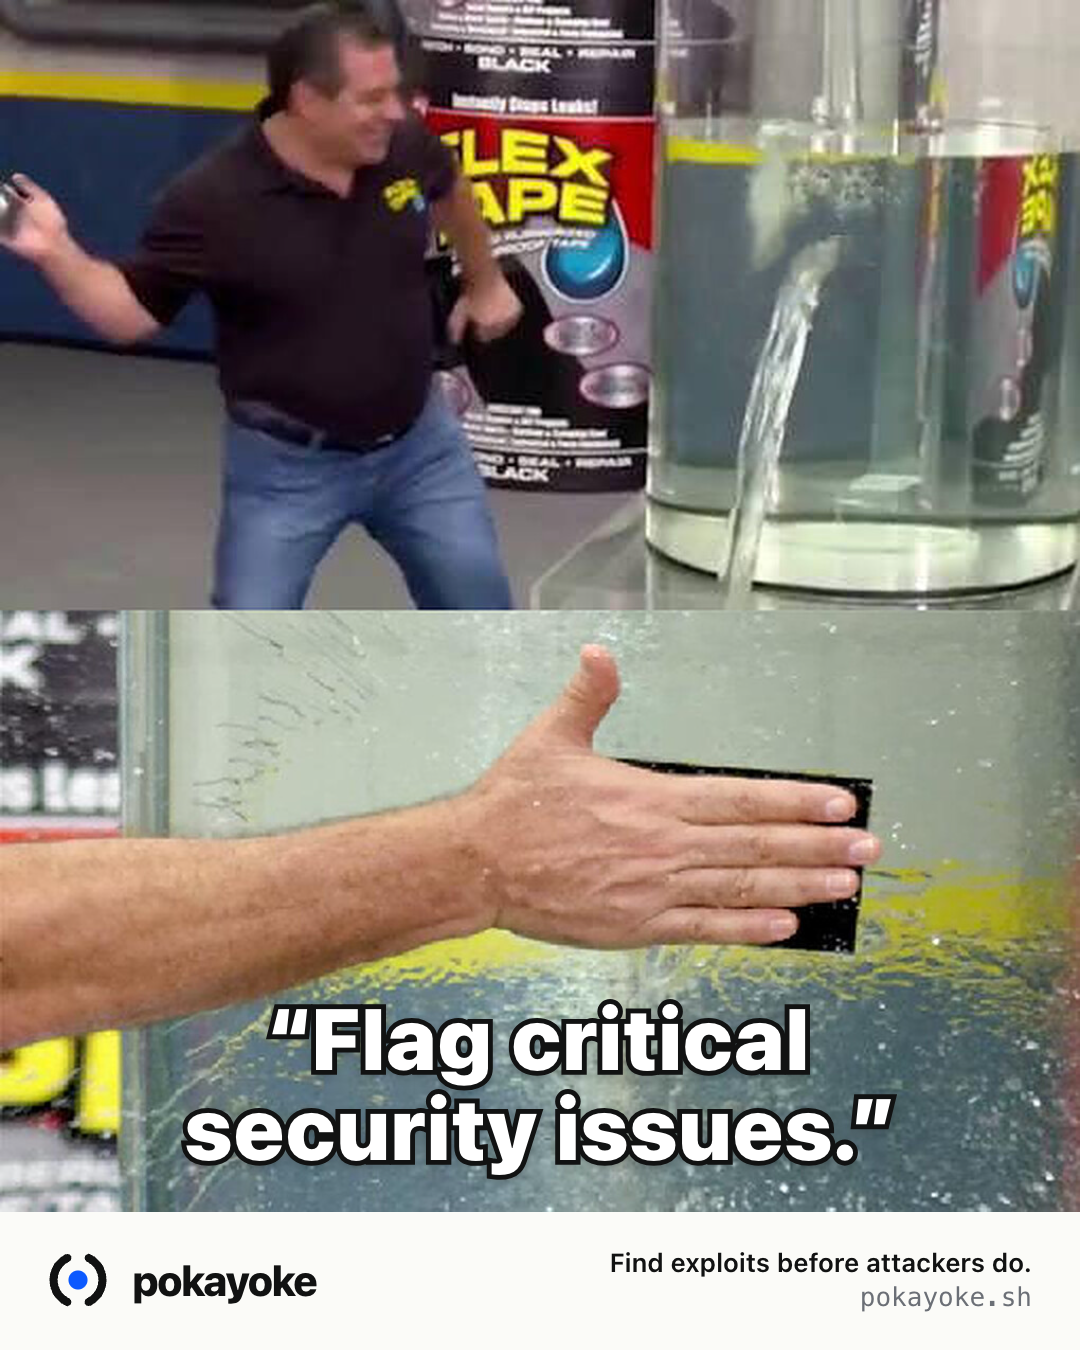
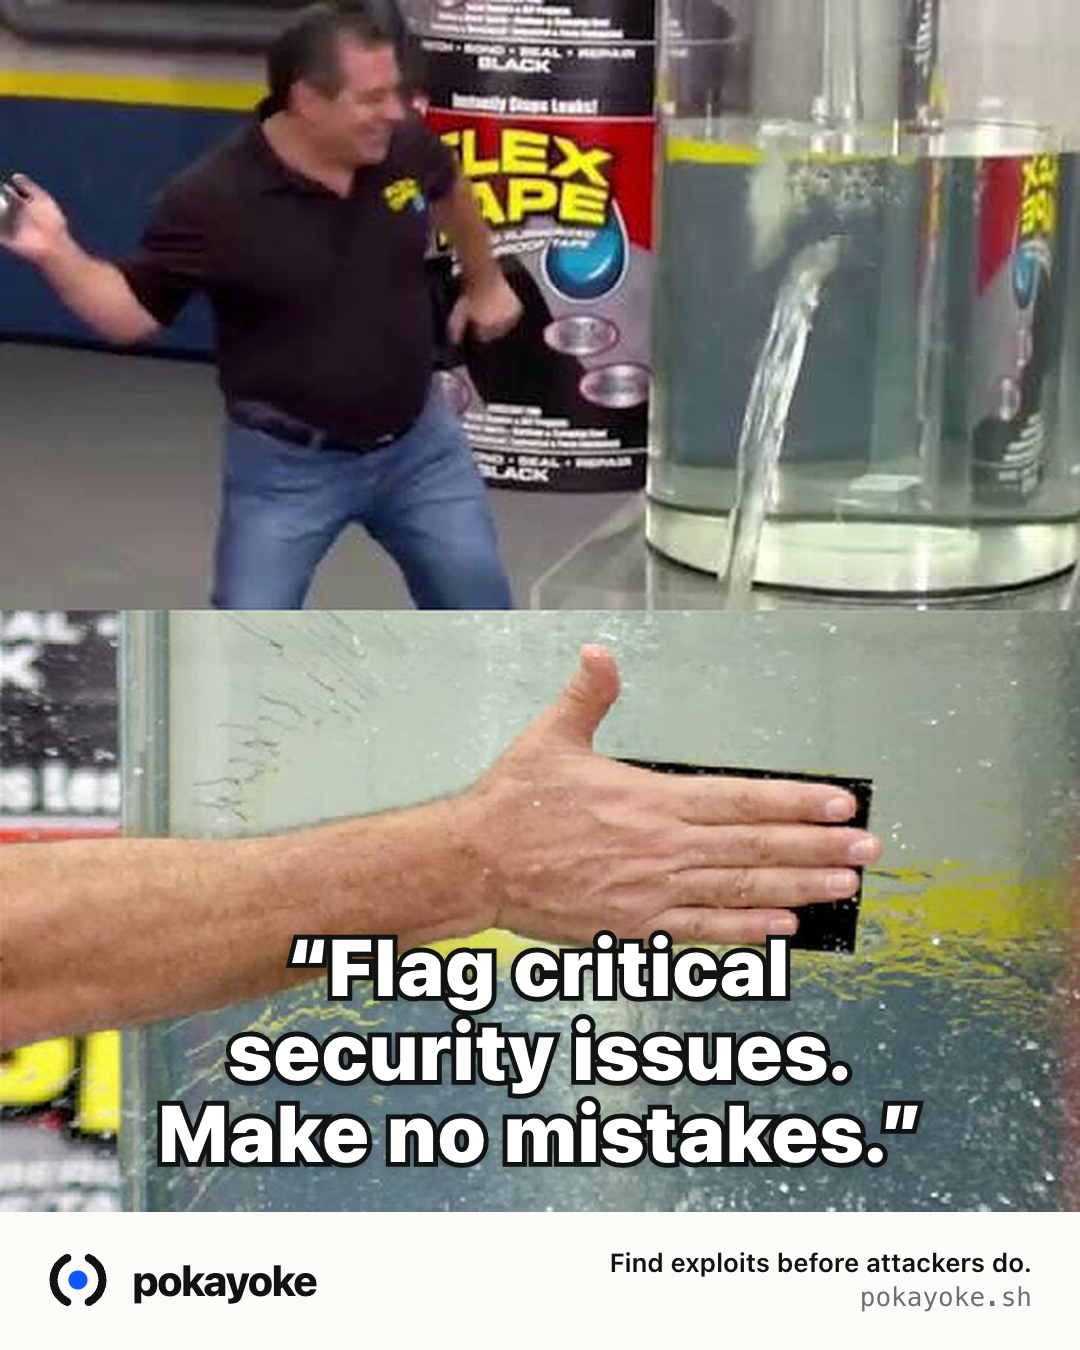
PKY-0006: add "Make no mistakes." after the meme's quoted bottom text, on its own line

Changed region(s): [[0.1222, 0.6844, 0.8556, 0.8711]]

diff --git a/ads/PKY-0006/ad.html b/ads/PKY-0006/ad.html
@@ -10,8 +10,9 @@
 <link rel="stylesheet" href="../../brand/tokens.css">
 <!--
   Meme: Flex Tape (imgflip template 166969924, the same frames as the user's image), upscaled 2x to meme.jpg
-  (1020x1144). The user asked for "Flag critical security issues." at the bottom, in quotation marks: it is the
-  meme's bottom text. No headline: the meme carries the ad.
+  (1020x1144). The user asked for "Flag critical security issues. Make no mistakes." at the bottom, in quotation
+  marks, like a prompt to an AI: it is the meme's bottom text, the second sentence on its own line. No headline:
+  the meme carries the ad.
   Layouts: 16:9 meme left, panel right. 4:5 meme full width over a brand band. 9:16 meme, then line and brand band.
 -->
 <style>
@@ -59,7 +60,7 @@
     transform: translateX(-50%);
     text-align: center;
     text-wrap: balance;
-    font-size: 8cqw;
+    font-size: 7.4cqw;
     font-weight: 900;
     letter-spacing: 0.01em;
     line-height: 1.04;
@@ -68,6 +69,7 @@
     paint-order: stroke fill;
     text-shadow: 0 0.4cqw 1.2cqw color-mix(in srgb, var(--color-ink) 45%, transparent);
   }
+  .caption span { display: block; }
 
   /* The line and the lockup */
   .panel {
@@ -132,7 +134,7 @@
 <main class="ad">
   <div class="meme">
     <img src="meme.jpg" width="1020" height="1144" alt="">
-    <p class="caption">“Flag critical security issues.”</p>
+    <p class="caption"><span>“Flag critical security issues.</span> <span>Make no mistakes.”</span></p>
   </div>
 
   <section class="panel">

diff --git a/ads/manifest.js b/ads/manifest.js
@@ -15,7 +15,7 @@ window.POKAYOKE_ADS = [
   },
   {
     id: 'PKY-0006',
-    alt: 'pokayoke ad. The Flex Tape meme: a pitchman with a tank of water gushing from a hole, then a hand slapping tape over the leak, with the bottom text in quotes: "Flag critical security issues." pokayoke watches every push, runs an exploit against what it finds, and flags the critical issues before attackers do. Find exploits before attackers do. pokayoke.sh',
+    alt: 'pokayoke ad. The Flex Tape meme: a pitchman with a tank of water gushing from a hole, then a hand slapping tape over the leak, with the bottom text in quotes: "Flag critical security issues. Make no mistakes." pokayoke watches every push, runs an exploit against what it finds, and flags the critical issues before attackers do. Find exploits before attackers do. pokayoke.sh',
   },
   {
     id: 'PKY-0005',

diff --git a/memes/manifest.js b/memes/manifest.js
@@ -222,7 +222,7 @@ window.POKAYOKE_MEMES = [
     fit: 'The leak gets slapped shut the moment it shows: pokayoke as the tape.',
     panels: [
       ['Pitchman and the gushing tank', 'Your repo, springing a leak'],
-      ['Bottom text, over the tape', '"Flag critical security issues."'],
+      ['Bottom text, over the tape', '"Flag critical security issues. Make no mistakes."'],
     ],
     line: 'pokayoke watches every push, runs an exploit against what it finds, and flags the critical issues before attackers do.',
     ad: 'PKY-0006',

diff --git a/README.md b/README.md
@@ -34,7 +34,7 @@ git config credential.https://KiltroKills@github.com.helper \
 | PKY-0009 | "Found. Verified. Disclosed." over the pokayoke.sh finding strip stood up as a list: score chip, severity, repo and advisory ID for five findings (seven in 9:16) from its public disclosure record | [`ads/PKY-0009/`](ads/PKY-0009/) |
 | PKY-0008 | The "Paste into your agent" card from pokayoke.sh in its dark theme: the line to paste and the blue Copy button | [`ads/PKY-0008/`](ads/PKY-0008/) |
 | PKY-0007 | The pokayoke.sh hero: "Find exploits before attackers do." and its three blue ticks (GitHub App, proven or not, private fix) | [`ads/PKY-0007/`](ads/PKY-0007/) |
-| PKY-0006 | Flex Tape meme with the bottom text, in quotes, "Flag critical security issues." (meme bank MEME-12; `captioned.png` is the meme alone) | [`ads/PKY-0006/`](ads/PKY-0006/) |
+| PKY-0006 | Flex Tape meme with the bottom text, in quotes, "Flag critical security issues. Make no mistakes." (meme bank MEME-12; `captioned.png` is the meme alone) | [`ads/PKY-0006/`](ads/PKY-0006/) |
 | PKY-0005 | "Who's next?" Grim reaper doors meme: GitHub and Meta already hit, the last door is YOUR REPO ([TechCrunch](https://techcrunch.com/2026/05/20/github-says-hackers-stole-data-from-thousands-of-internal-repositories/), [SecurityWeek](https://www.securityweek.com/meta-says-hackers-took-code-personal-data-of-1500-in-github-breach/)) | [`ads/PKY-0005/`](ads/PKY-0005/) |
 | PKY-0001 | Link your repo, scan for vulnerabilities, get one clear critical count | [`ads/PKY-0001/`](ads/PKY-0001/) |
 
